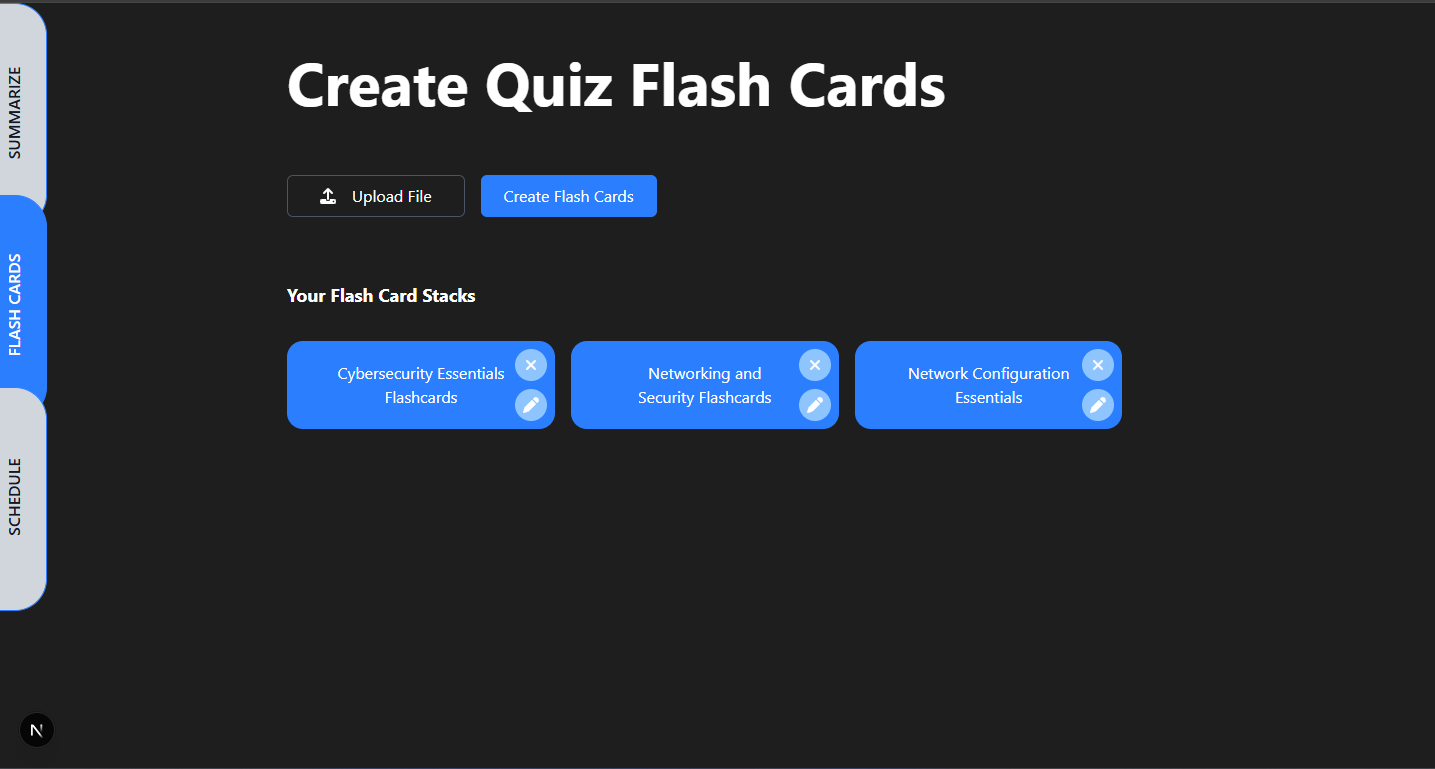
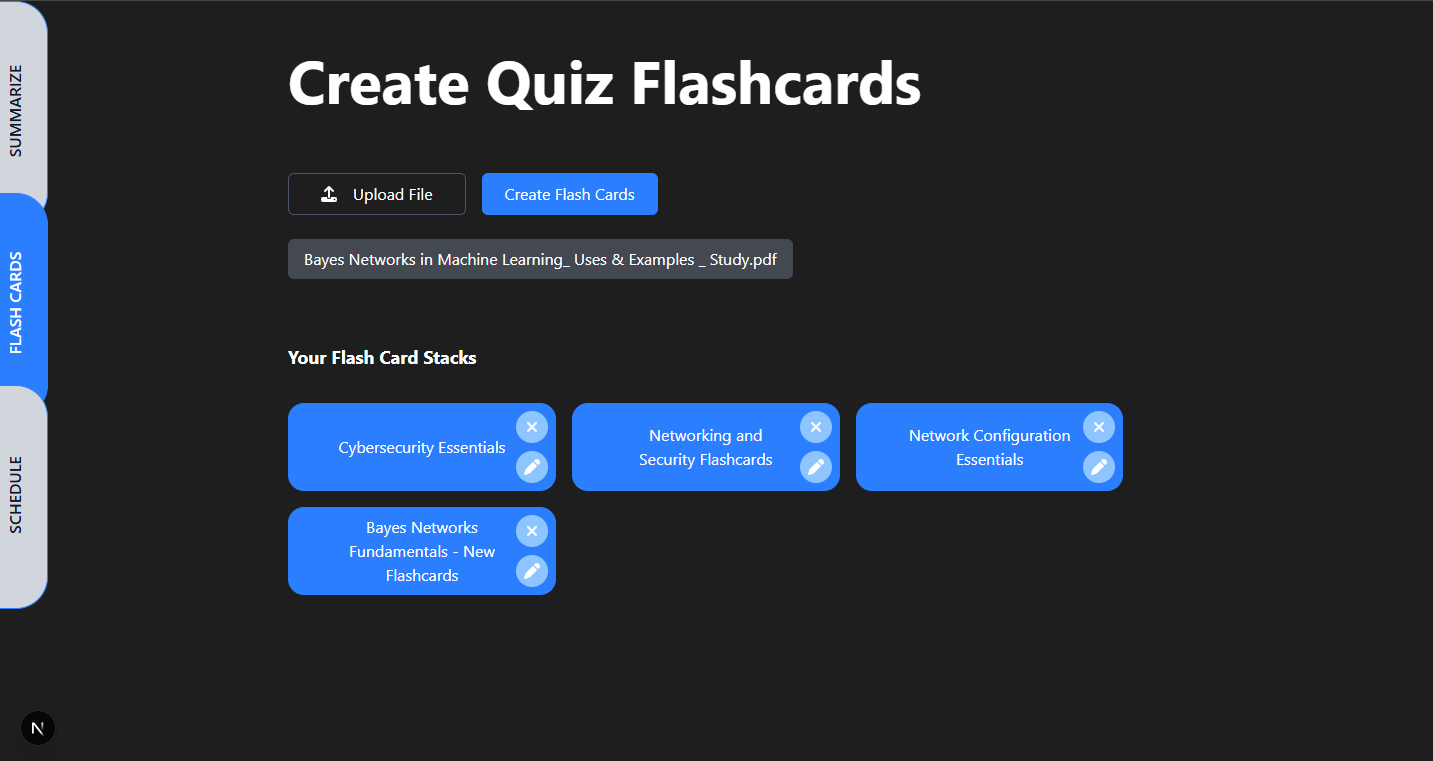
updated readme file

diff --git a/frontend/app/flash-cards/page.tsx b/frontend/app/flash-cards/page.tsx
@@ -131,7 +131,7 @@ export default function Schedule() {
         )}
 
         <h1 className="text-6xl font-bold mb-16 w-full relative">
-          Create Quiz Flash Cards
+          Create Quiz Flashcards
         </h1>
 
         <form

diff --git a/README.md b/README.md
@@ -36,14 +36,14 @@ An intelligent scheduling agent that connects to your **Google Calendar** and su
 
 ## Technologies:
 
-- Frontend: Next.js
-- Backend: FastAPI
-- AI: Gemini 2.0 Flash
+- Frontend: `Next.js`
+- Backend: `FastAPI`
+- AI: `Gemini 2.0 Flash`
 - Text parsing: `PyMuPDF`
 - Calendar access: `Google Calendar API`
 - Agent orchestration: `LangChain`
 - Auth: OAuth 2 with `credentials.json` and `token.json`
-- Database: SQLite
+- Database: `SQLite`
 
 ## Demo Videos
 
